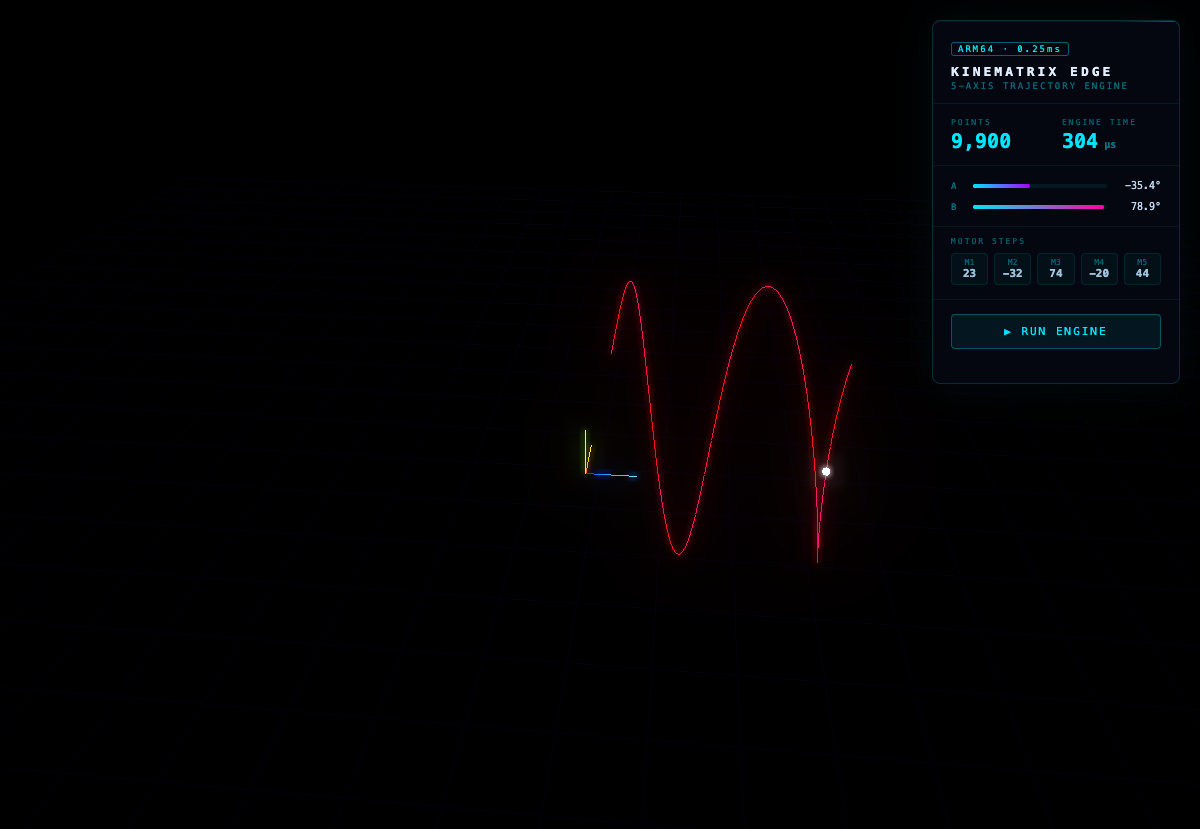
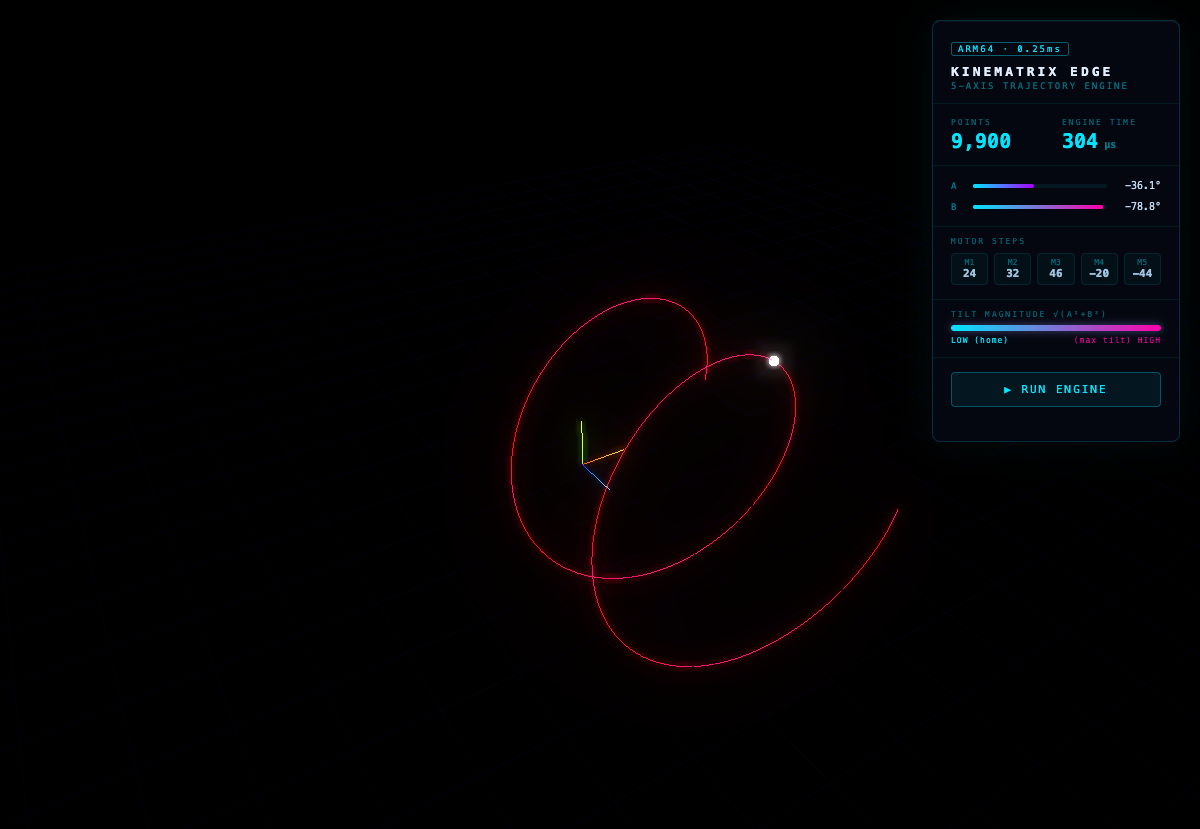
feat: add tilt-magnitude colour legend to dashboard panel

diff --git a/dashboard/static/index.html b/dashboard/static/index.html
@@ -180,6 +180,30 @@
     .motor-cell .m-name { font-size: 8px; color: rgba(0,229,255,0.4); }
     .motor-cell .m-val  { font-size: 11px; color: #a0c4e0; font-weight: bold; }
 
+    /* ── Legend ───────────────────────────────────────────── */
+    .legend-section {
+      padding: 10px 18px 12px;
+      border-bottom: 1px solid rgba(0,220,255,0.08);
+    }
+
+    .legend-bar {
+      height: 6px;
+      border-radius: 3px;
+      background: linear-gradient(90deg, #00e5ff, #ff00aa);
+      margin: 6px 0 5px;
+      box-shadow: 0 0 8px rgba(0,229,255,0.3), 0 0 8px rgba(255,0,170,0.3);
+    }
+
+    .legend-labels {
+      display: flex;
+      justify-content: space-between;
+      font-size: 8px;
+      letter-spacing: 1px;
+    }
+
+    .legend-labels span:first-child { color: #00e5ff; }
+    .legend-labels span:last-child  { color: #ff00aa; }
+
     /* ── Button ───────────────────────────────────────────── */
     .panel-footer { padding: 14px 18px; }
 
@@ -256,6 +280,15 @@
         <div class="motor-cell"><div class="m-name">M3</div><div class="m-val" id="m3">—</div></div>
         <div class="motor-cell"><div class="m-name">M4</div><div class="m-val" id="m4">—</div></div>
         <div class="motor-cell"><div class="m-name">M5</div><div class="m-val" id="m5">—</div></div>
+      </div>
+    </div>
+
+    <div class="legend-section">
+      <div class="label">TILT MAGNITUDE  √(A²+B²)</div>
+      <div class="legend-bar"></div>
+      <div class="legend-labels">
+        <span>LOW  (home)</span>
+        <span>(max tilt)  HIGH</span>
       </div>
     </div>
 